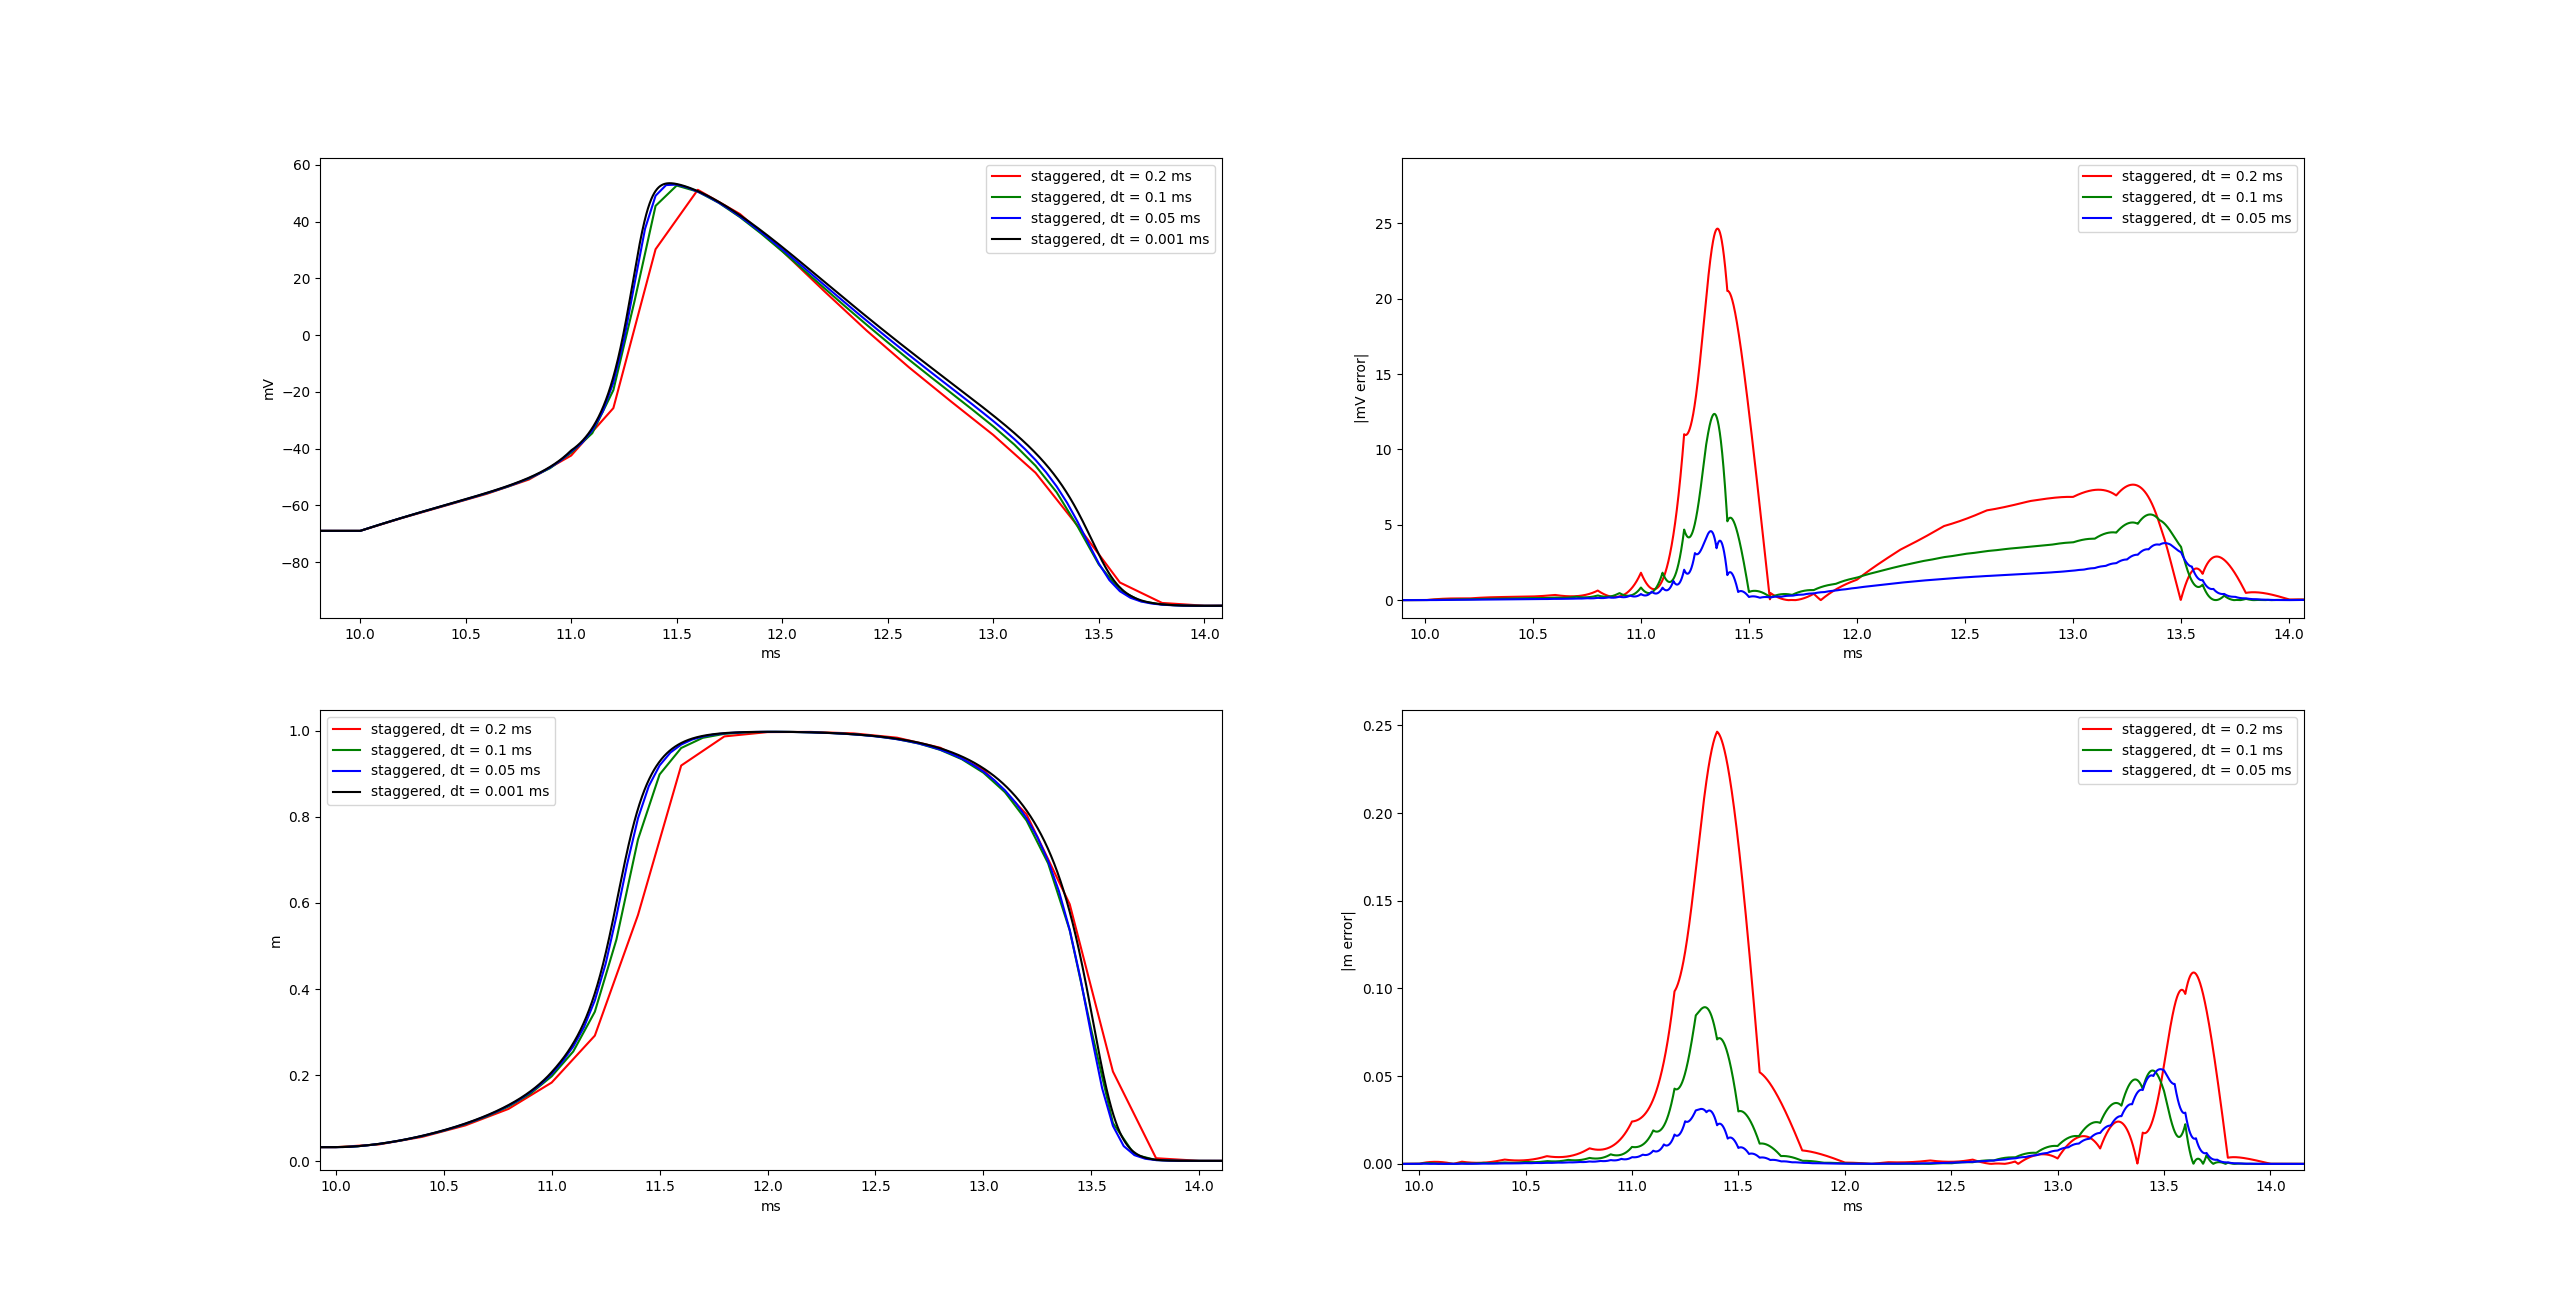
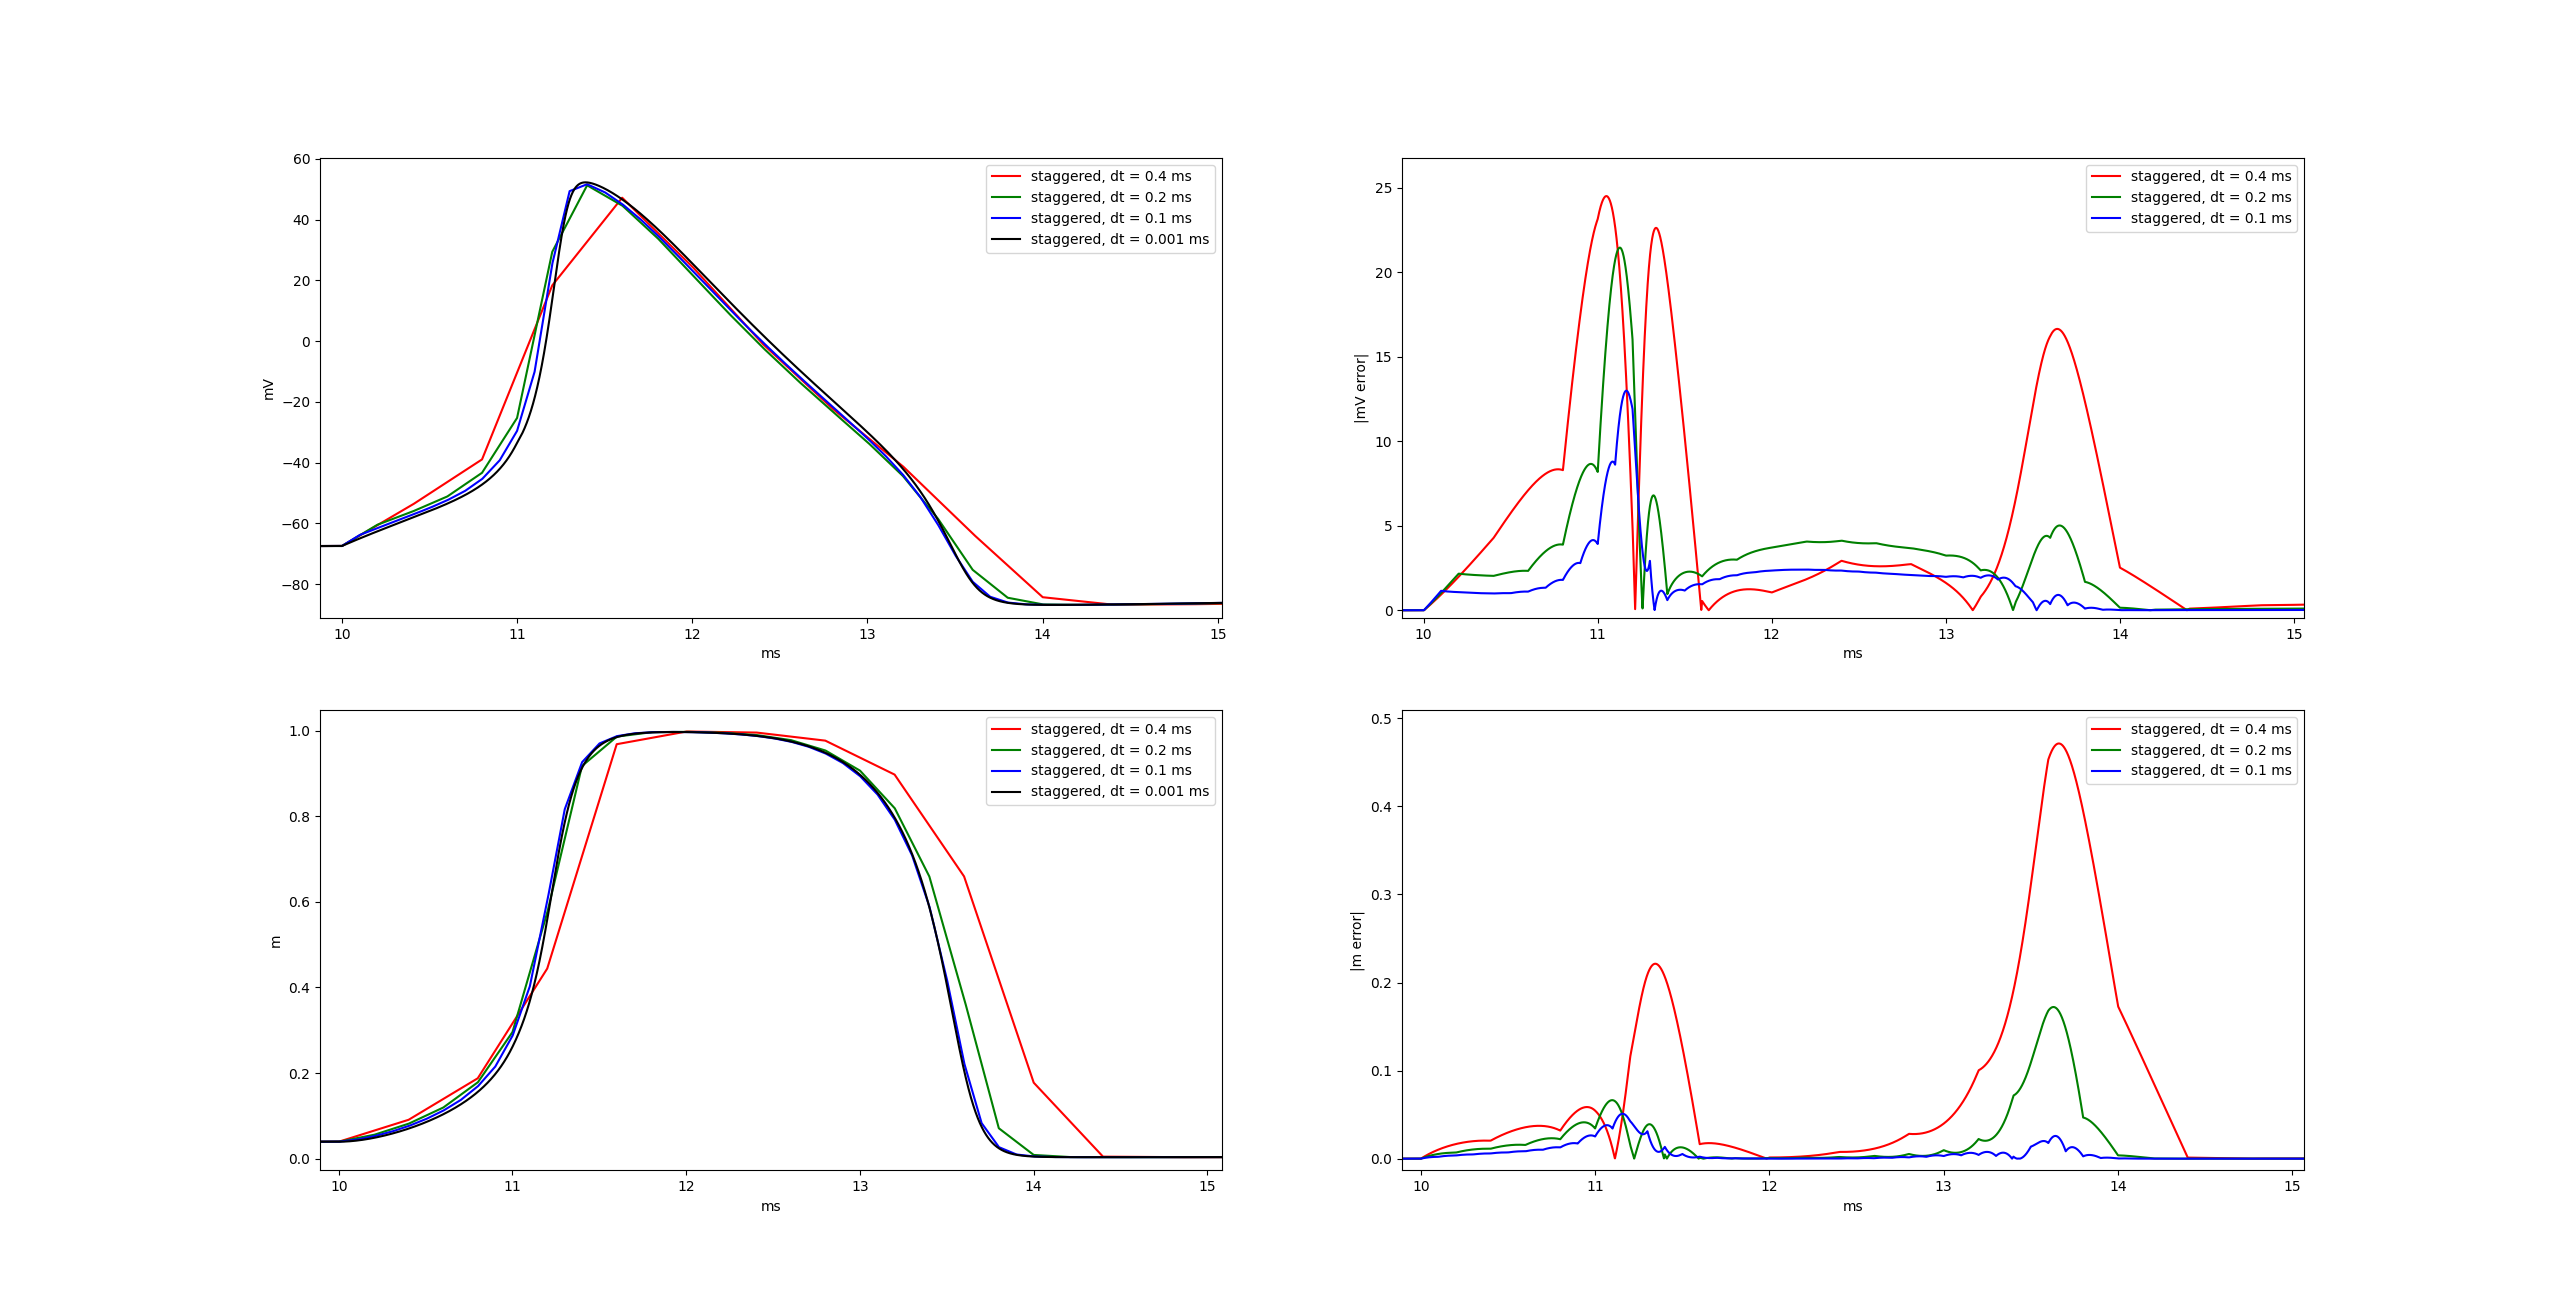
Split HH accuracy example into its own file, regenerate figures

diff --git a/neuwon/examples/Hodgkin_Huxley/accuracy.py b/neuwon/examples/Hodgkin_Huxley/accuracy.py
@@ -1,0 +1,130 @@
+from neuwon.database.time import TimeSeries
+import matplotlib.pyplot as plt
+import neuwon.model
+import numpy as np
+
+class Model:
+    def __init__(self,
+            time_step     = 1e-3,
+            stagger       = True,
+            # These parameters approximately match Figure 4.9 & 4.10 of the NEURON book.
+            soma_diameter = 5.642,
+            stimulus      = 0.025e-9,
+        ):
+        self.time_step      = time_step
+        self.stagger        = stagger
+        self.soma_diameter  = soma_diameter
+        self.stimulus       = stimulus
+        self.make_model()
+        self.init_steady_state()
+        self.run_experiment()
+
+    def make_model(self):
+        self.model = m = neuwon.model.Model(self.time_step, celsius=6.3)
+        na_cls  = m.add_species("na", reversal_potential = +60)
+        k_cls   = m.add_species("k",  reversal_potential = -88)
+        l_cls   = m.add_species("l",  reversal_potential = -54.3,)
+        hh_cls  = m.add_reaction("./nmodl_library/hh.mod")
+        self.soma = m.Segment(None, [0,0,0], self.soma_diameter)
+        self.hh = hh_cls(self.soma, scale=1)
+        if True:
+            sa_units = self.soma.get_database_class().get("surface_area").get_units()
+            print("Soma surface area:", self.soma.surface_area, sa_units)
+
+    def init_steady_state(self):
+        while self.model.clock() < 40:
+            self.model.advance()
+        self.model.clock.reset()
+
+    def run_experiment(self):
+        self.v_data = TimeSeries().record(self.soma, "voltage")
+        self.m_data = TimeSeries().record(self.hh, "m")
+        ap_times = [10, 25, 40]
+        while self.model.clock() < 50:
+            if ap_times and self.model.clock() >= ap_times[0]:
+                ap_times.pop(0)
+                self.soma.inject_current(self.stimulus, duration=1)
+            if self.stagger:
+                self.model.advance()
+            else:
+                self.model._advance_lockstep()
+        self.v_data.stop()
+        self.m_data.stop()
+        self.model.check()
+
+def main():
+    gold = Model(time_step = 1e-3)
+
+    def measure_error(model):
+        model.v_data.interpolate(gold.v_data)
+        model.m_data.interpolate(gold.m_data)
+        error_v = np.abs(np.subtract(model.v_data.get_data(), gold.v_data.get_data()))
+        error_m = np.abs(np.subtract(model.m_data.get_data(), gold.m_data.get_data()))
+        return (model.v_data.get_timestamps(), error_v, error_m)
+
+    def make_label(x):
+        if x.stagger:   return "staggered, dt = %g ms"%(x.time_step)
+        else:           return "unstaggered, dt = %g ms"%(x.time_step)
+
+    def make_figure(stagger):
+        slow   = Model(time_step = 2*200e-3, stagger=stagger)
+        medium = Model(time_step = 2*100e-3, stagger=stagger)
+        fast   = Model(time_step = 2* 50e-3, stagger=stagger)
+
+        slow_times,   slow_error_v,   slow_error_m   = measure_error(slow)
+        medium_times, medium_error_v, medium_error_m = measure_error(medium)
+        fast_times,   fast_error_v,   fast_error_m   = measure_error(fast)
+
+        plt.subplot(2,2,1)
+        plt.plot(slow.v_data.get_timestamps(), slow.v_data.get_data(), 'r',
+                label=make_label(slow))
+        plt.plot(medium.v_data.get_timestamps(), medium.v_data.get_data(), 'g',
+                label=make_label(medium))
+        plt.plot(fast.v_data.get_timestamps(), fast.v_data.get_data(), 'b',
+                label=make_label(fast))
+        plt.plot(gold.v_data.get_timestamps(), gold.v_data.get_data(), 'k',
+                label=make_label(gold))
+        gold.v_data.label_axes()
+        plt.legend()
+
+        plt.subplot(2,2,3)
+        plt.plot(slow.m_data.get_timestamps(), slow.m_data.get_data(), 'r',
+                label=make_label(slow))
+        plt.plot(medium.m_data.get_timestamps(), medium.m_data.get_data(), 'g',
+                label=make_label(medium))
+        plt.plot(fast.m_data.get_timestamps(), fast.m_data.get_data(), 'b',
+                label=make_label(fast))
+        plt.plot(gold.m_data.get_timestamps(), gold.m_data.get_data(), 'k',
+                label=make_label(gold))
+        plt.legend()
+        gold.m_data.label_axes()
+
+        plt.subplot(2,2,2)
+        plt.plot(slow_times, slow_error_v, 'r',
+                label=make_label(slow))
+        plt.plot(medium_times, medium_error_v, 'g',
+                label=make_label(medium))
+        plt.plot(fast_times, fast_error_v, 'b',
+                label=make_label(fast))
+        plt.legend()
+        plt.xlabel('ms')
+        plt.ylabel('|mV error|')
+
+        plt.subplot(2,2,4)
+        plt.plot(slow_times, slow_error_m, 'r',
+                label=make_label(slow))
+        plt.plot(medium_times, medium_error_m, 'g',
+                label=make_label(medium))
+        plt.plot(fast_times, fast_error_m, 'b',
+                label=make_label(fast))
+        plt.legend()
+        plt.xlabel('ms')
+        plt.ylabel('|m error|')
+
+    plt.figure("Unstaggered Time Steps")
+    make_figure(False)
+    plt.figure("Staggered Time Steps")
+    make_figure(True)
+    plt.show()
+
+if __name__ == "__main__": main()
